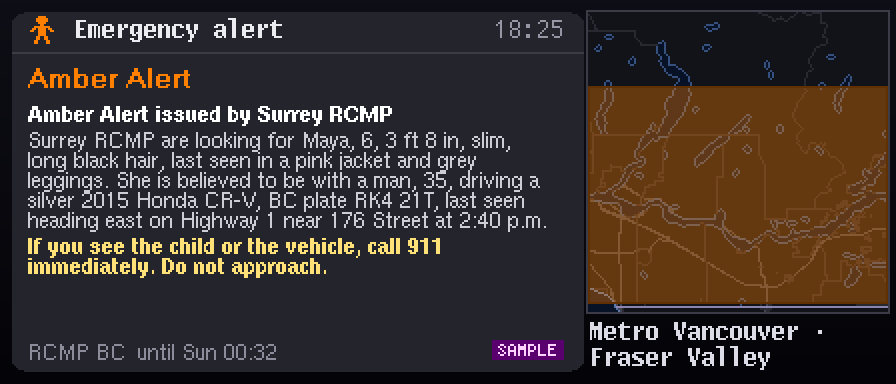
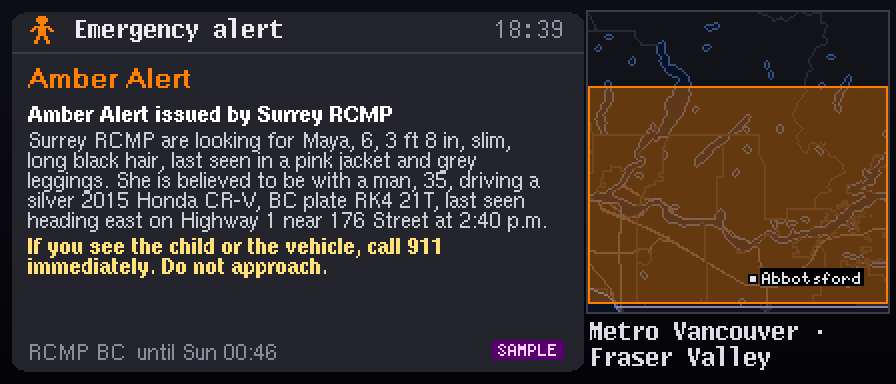
README media for the wildfire, quake half and Alert Ready maps; CLAUDE.md: reference places

diff --git a/CLAUDE.md b/CLAUDE.md
@@ -126,6 +126,10 @@ tsunami (`tsunami.py`, NTWC + DFO gauges), wildfire (`wildfire.py`, BCWS/EMCR, S
 - No clashes: NAAD drops ECCC messages and routes quake/tsunami/fire/road ones to those screens (cache
   `naad_routed.json`); the weather alert job leaves tsunami alerts to the tsunami screen.
 - Maps: `hub/bc/maps.py` renders each screen's basemap into `data/bcmaps/` (bump `RENDER_VERSION` after changes).
+- Reference place: every zoomed or cropped alert map keeps home in view, or, when fitting home would shrink the
+  alert area too far (> 3× zoom-out, or below 30 px for tiny areas), the biggest nearby BC city; failing that it
+  points to the nearest place from the map's edge. City list and rules: `common/places.py`; crops:
+  `bc_kit.frame_crop` + `ref_marker`; the wildfire evacuation zoom: `places.zoom_area`.
 - Live seismometers (quake screen): `hub/bc/seismo.py` thread reads 35 CN/UW channels from EarthScope SeedLink
   (`hub/bc/mseed.py`, no obspy), pushes station intensities + QEPB trace to `/bc_quake_obs` only while a quake is fresh,
   detects ≥ 4 triggered stations. Replay a recorded quake: `POST /api/bc/quakes/replay {"name": "orcas2025", "as": "quake|eew|detect"}`.
